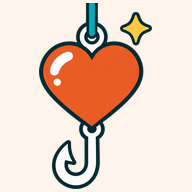
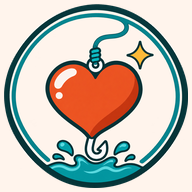
App 圖示換成新版：釣起愛心的圓形徽章
- 用 GPT 產的「從水裡釣起愛心」圖，背景補上米色，做成主圖示、Apple 圖示、1024 圓角版
- 自適應（maskable）圖示讓圓形徽章剛好滿版
- favicon 只取愛心部分，小尺寸更清楚
- 圖示網址版本參數改為 v=3

Claude-Session: https://claude.ai/code/session_01TfsCMMS1EukxMS38GiAAfD

diff --git a/index.html b/index.html
@@ -11,8 +11,8 @@
 <meta name="apple-mobile-web-app-status-bar-style" content="default">
 <meta name="apple-mobile-web-app-title" content="今天餵誰">
 <link rel="manifest" href="manifest.json">
-<link rel="icon" type="image/png" sizes="32x32" href="icons/favicon-32.png?v=2">
-<link rel="apple-touch-icon" href="icons/apple-touch-icon-180.png?v=2">
+<link rel="icon" type="image/png" sizes="32x32" href="icons/favicon-32.png?v=3">
+<link rel="apple-touch-icon" href="icons/apple-touch-icon-180.png?v=3">
 <link rel="preconnect" href="https://fonts.googleapis.com">
 <link rel="preconnect" href="https://fonts.gstatic.com" crossorigin>
 <link rel="stylesheet" href="https://fonts.googleapis.com/css2?family=Chiron+GoRound+TC:wght@400;700&family=Noto+Sans+TC:wght@400;500;700;900&display=swap">
